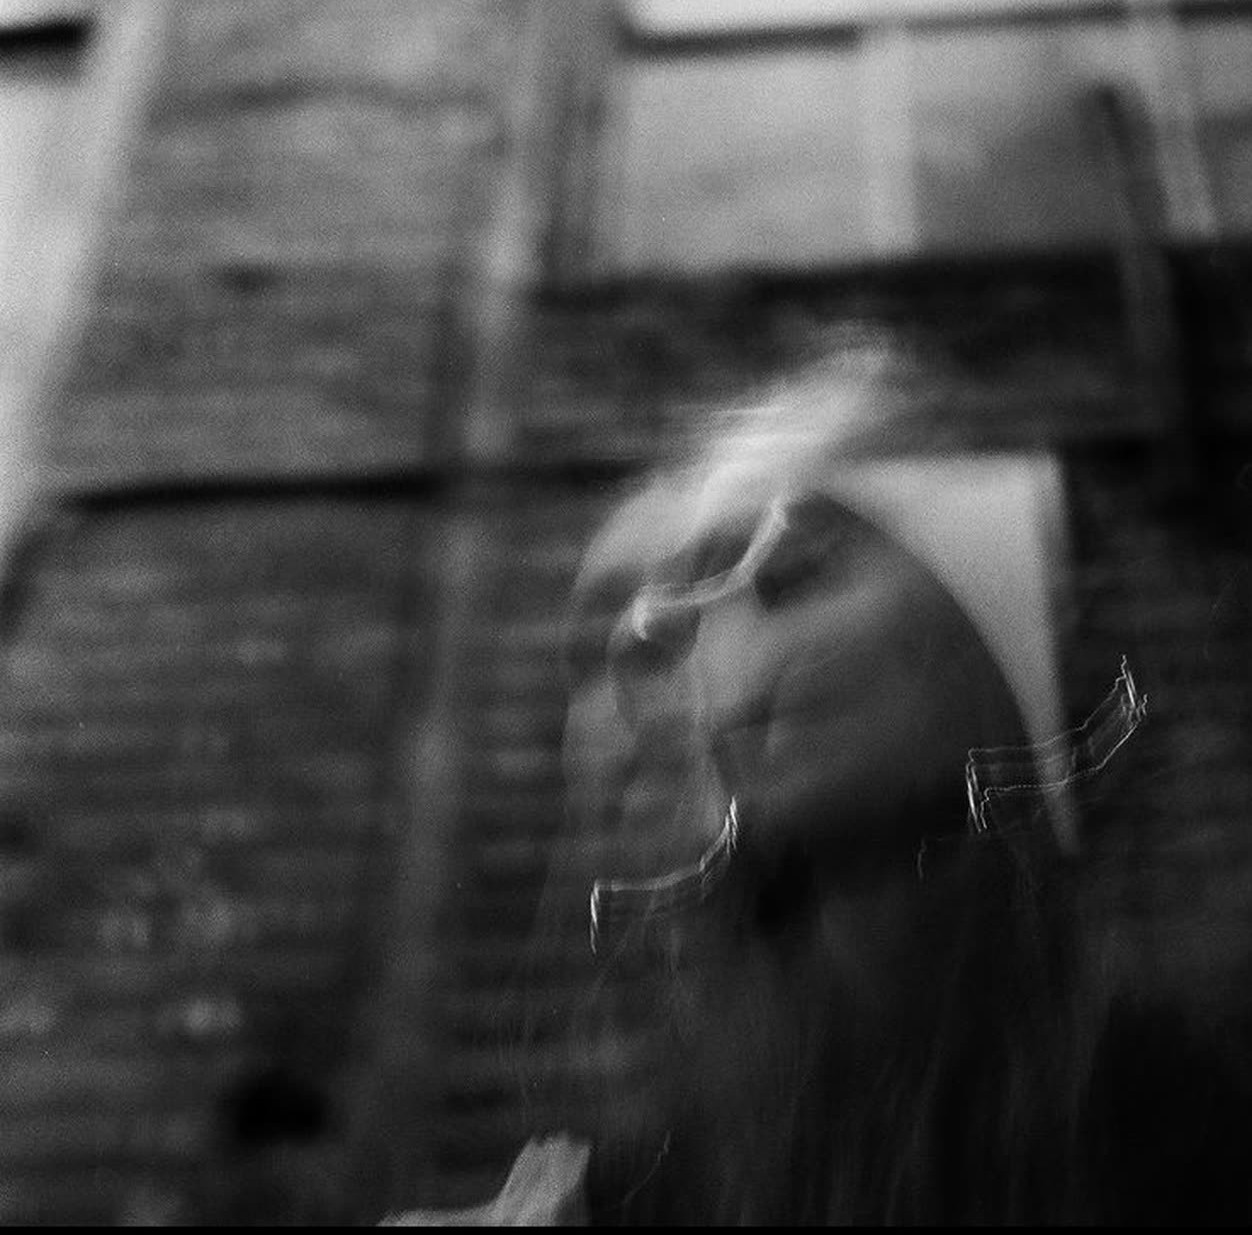
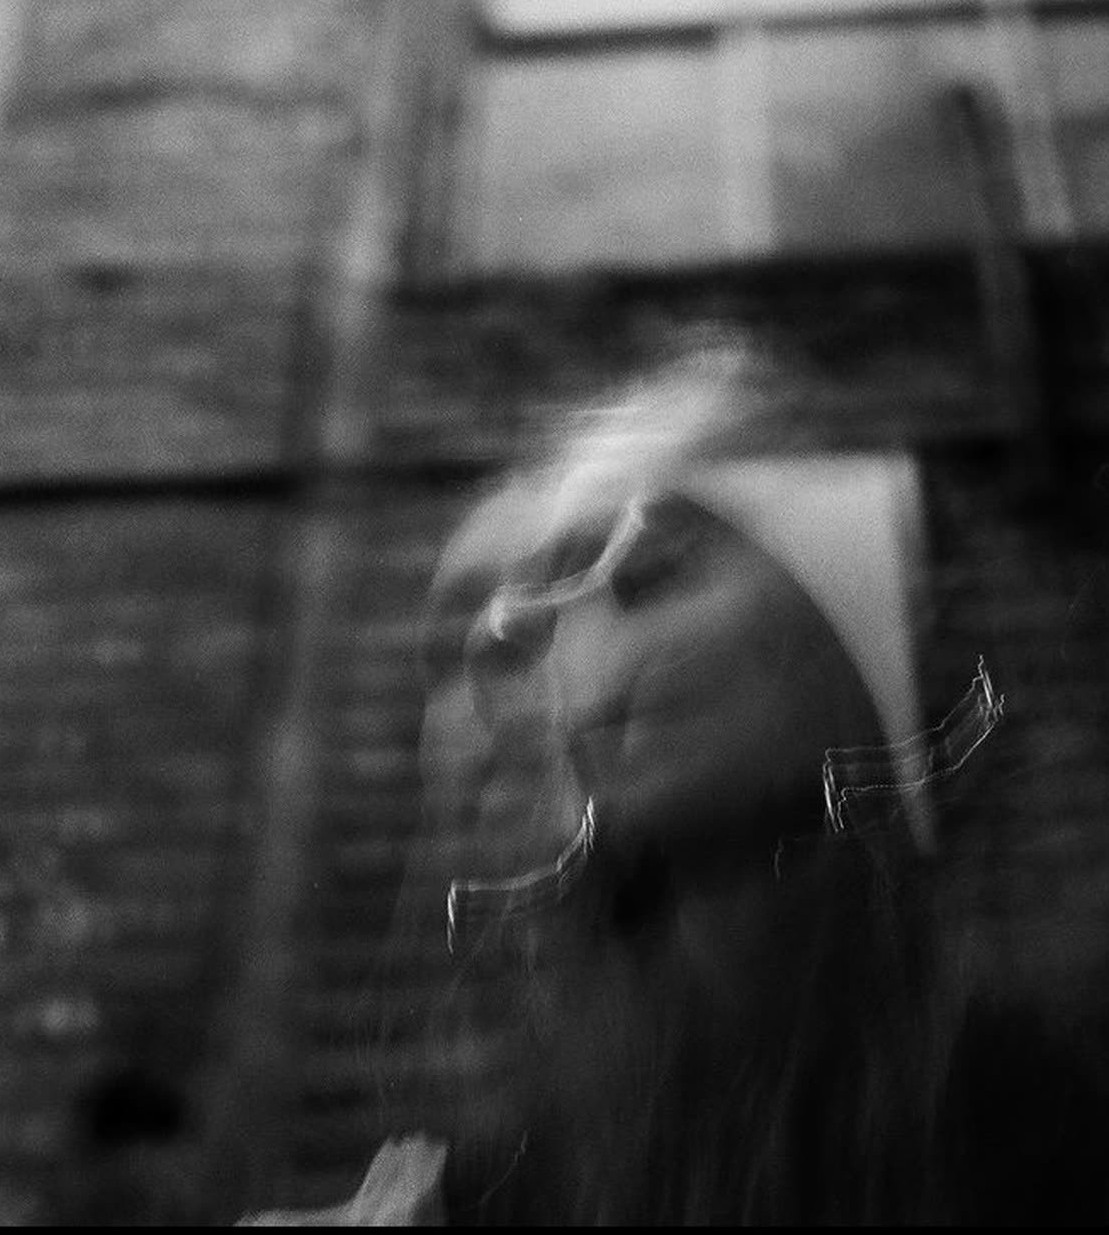
new artist photoos

diff --git a/festiwal/src/data/artists.ts b/festiwal/src/data/artists.ts
@@ -70,7 +70,7 @@ const INTERACTIVE_INSTALLATION = {
 };
 const PROJECT_AMBIENT = { pl: "Projekt ambientowy", en: "Ambient project" };
 const LIVE_AV_SHOW = { pl: "Live AV Show", en: "Live AV Show" };
-const KACZMARSKA_BIO = {
+/*const KACZMARSKA_BIO = {
   pl: [
     "Na STREFACH CZASOWYCH Ania Kaczmarska stanie oko w oko z własnym cieniem.",
     "Tekst do jej pracy rozsypuje się na kartce jak kroki na parkiecie: „Było”, „Jest”, „Będzie”, „Ja”, „Ty”. Ruch prowadzi tu przez wszystkie czasy naraz, a każde zatrzymanie ma swojego świadka.",
@@ -83,7 +83,7 @@ const KACZMARSKA_BIO = {
     "Ania Kaczmarska is a dancer and choreographer from the Tri-City, a graduate of the contemporary dance program MoDem Atelier at Scenario Pubblico in Sicily. She specializes in site-specific projects. In Catania, she created the solo „95131” about the San Berillo district, and this year she directed the play „Farewell to the old Żabka logo”.",
     "Tonight, one hour will happen twice. I wonder if the shadow will keep up.",
   ],
-};
+};*/
 const SUBBASICS_BIO = {
   pl: [
     "Dub techno, UK bass i dubstepowe korzenie. Na STREFACH CZASOWYCH zagra je Sub Basics, prosto z Wielkiej Brytanii.",
@@ -122,7 +122,7 @@ const ORZECHOWSKA_BIO = {
     "Patrycja Orzechowska is a visual artist and author of artist books associated with Gdańsk. She is a graduate of the Academy of Fine Arts in Gdańsk and the Interdisciplinary Doctoral Studies at the University of the Arts in Poznań. She works with ceramics, installation, object, photography, collage, graphic design and collecting. She likes crop rotation the most.",
   ],
 };
-const KONIARSKA_BIO = {
+/*const KONIARSKA_BIO = {
   pl: [
     "Na STREFACH CZASOWYCH Marta Maria Koniarska pokaże obrazy olejne i haft o tym, czego szukamy, choć nie umiemy tego złapać.",
     "Obrazy „Zupa Nic”, „kwiaty paproci” i „Stan skupienia” pytają, czy istnieją przepisy na szczęście — i czy poznamy, że już do niego doszliśmy. W hafcie „: P” wyszyte narządy układają się w mapę, przez którą ciało próbuje mówić na zewnątrz.",
@@ -135,7 +135,7 @@ const KONIARSKA_BIO = {
     "Marta Maria Koniarska is a visual artist and curator, a graduate of the Academy of Fine Arts in Gdańsk. She co-creates the independent gallery Wolne Pokoje and the visual part of the Spokój festival, and conducts art workshops for multiple generations at the Gdynia Przystanie Sąsiedzkie.",
     "The fern flower is said to bloom on the shortest night of the year. We will search for it on the one that lasts an hour longer.",
   ],
-};
+};*/
 const WIKA_BIO = {
   pl: [
     "Wika Wieczorek wyświetla na ścianie zdjęcia w kolorach gęstych jak syrop i stawia przed nimi swojego młodszego brata. W filmie „It’s Just a Dream” chłopiec przechodzi ze świata do świata jak z pokoju do pokoju. Każdy daje mu nowe zadanie, a każda pobudka okazuje się kolejnym piętrem snu.",
@@ -829,7 +829,7 @@ export const ARTISTS: Artist[] = [
     background: "var(--color-deep-forest)",
     text: "var(--color-cream)",
   },
-  {
+  /*{
     id: "kaczmarska",
     name: "Ania Kaczmarska",
     role: PERFORMER,
@@ -839,7 +839,7 @@ export const ARTISTS: Artist[] = [
     instagram: "https://www.instagram.com/owsi.anka",
     background: "var(--color-deep-navy)",
     text: "var(--color-periwinkle)",
-  },
+  },*/
   {
     id: "chatka",
     name: "Chatka Ebo",
@@ -851,7 +851,7 @@ export const ARTISTS: Artist[] = [
     background: "var(--color-cream)",
     text: "var(--color-deep-plum)",
   },
-  {
+  /*{
     id: "koniarska",
     name: "Marta Koniarska",
     role: VISUAL_ARTIST,
@@ -861,7 +861,7 @@ export const ARTISTS: Artist[] = [
     instagram: "https://www.instagram.com/qniec",
     background: "var(--color-deep-plum)",
     text: "var(--color-periwinkle)",
-  },
+  },*/
   {
     id: "adel",
     name: "Laura Adel",
